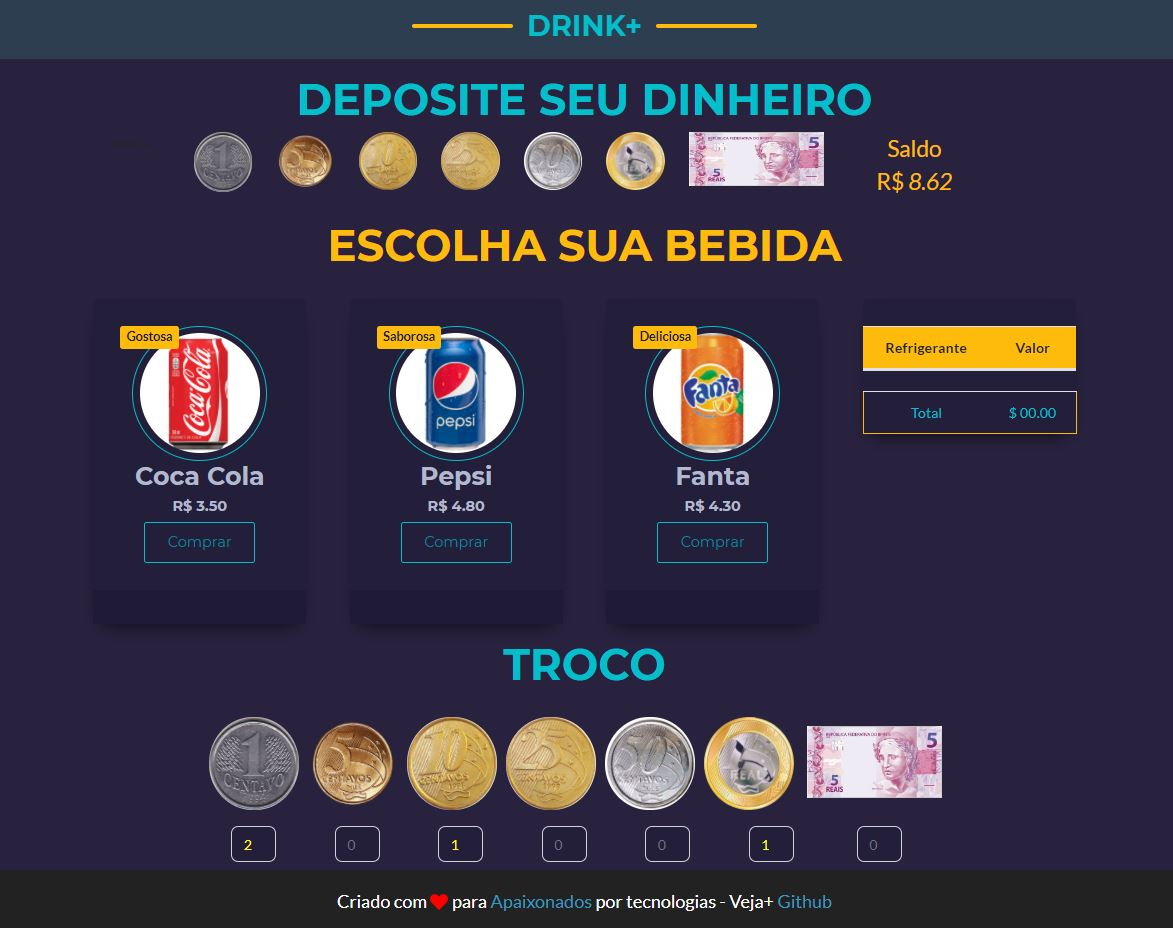
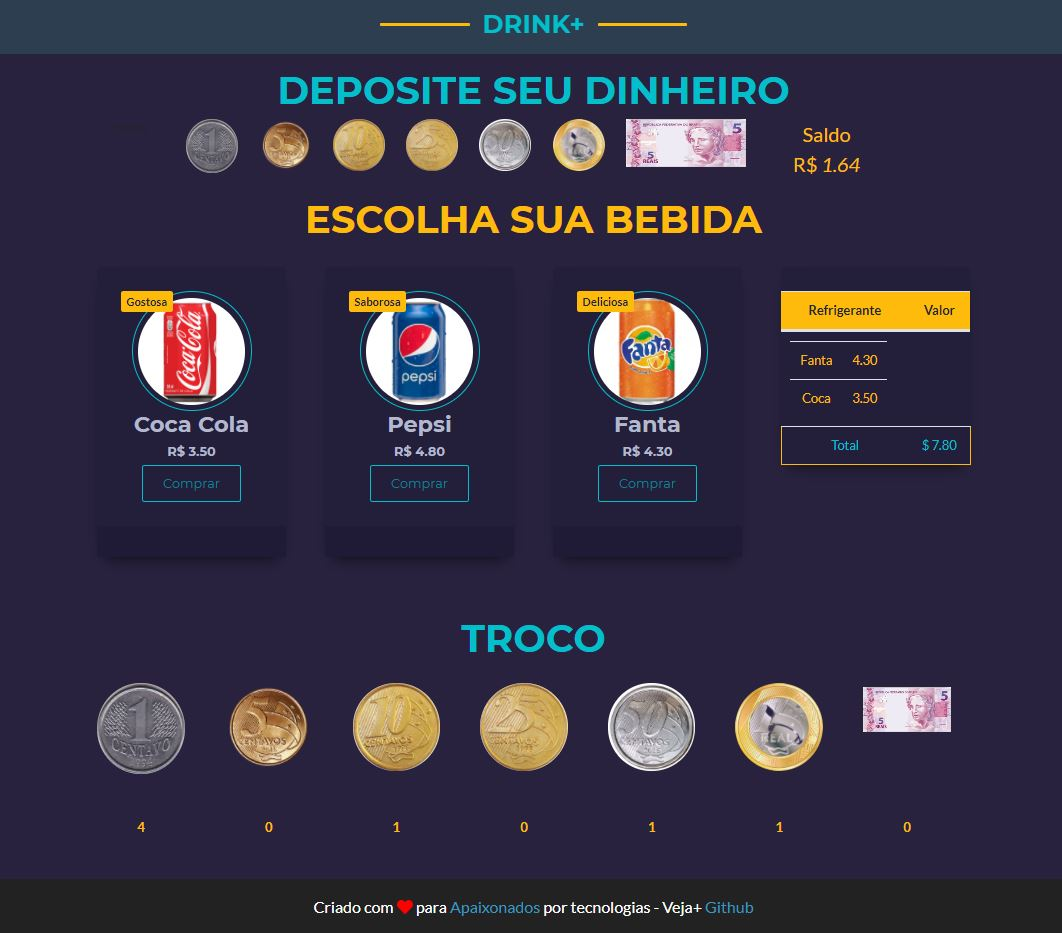
Refatoração do layout para mobile

diff --git a/index.html b/index.html
@@ -81,7 +81,7 @@
                 <!-- </div>   -->
         </section>
 
-        <section class="page-section portfolio" id="portfolio">
+        <section class="page-section portfolio" id="portfolio" >
             <div class="container" style="margin-top: -190px;">
                 <!-- Portfolio Section Heading-->
                 <h2 class="page-section-heading text-center text-uppercase text-secondary mb-0"><span style="color: #febb0b;">Escolha sua bebida</span></h2><br>
@@ -154,7 +154,7 @@
                                   <!-- <tr id="cart2"></tr>                                  -->
                                   <tr style="border:solid 2px #febb0b;">                                    
                                     <td style="color: #03bfcb;">Total</td>
-                                    <td style="color: #03bfcb;">$ 11.10</td>
+                                    <td style="color: #03bfcb;">$ 7.80</td>
                                   </tr>                              
                                 </tbody>
                               </table>
@@ -176,44 +176,135 @@
                         </div>
                     </div>
                 </div>                      
-            </div>        
+            </div> 
+            
+            
+
+
+            <h2 class="page-section-heading text-center text-uppercase text-secondary mb-0" ><span style="color: #03bfcb;">Troco</span></h2><br>
+            <div class="square">
+                <div class="block">                        
+                    <div class="centered">
+                        <img src="img/dinheiro/1centavo.jpg" value="0.01" id="1centavo" alt="..." class="rounded-circle " style="width: 100%">
+                    </div>
+                    
+                </div>
+            </div>
+            <div class="square">
+                <div class="block">                        
+                    <div class="centered">
+                        <img src="img/dinheiro/5centavos.png" value="0.05" alt="..." class="rounded-circle " style="width: 100%">
+                    </div>
+                    
+                </div>
+            </div>
+            <div class="square">
+                <div class="block">                        
+                    <div class="centered">
+                        <img src="img/dinheiro/10centavos.jpg" value="0.10" alt="..." class="rounded-circle " style="width: 100%;"> 
+                    </div>
+                    
+                </div>
+            </div>
+            <div class="square">
+                <div class="block">                        
+                    <div class="centered">
+                        <img src="img/dinheiro/25centavos.jpg" value="0.25" alt="..." class="rounded-circle " style="width: 100%;">
+                    </div>
+                    
+                </div>
+            </div>
+            <div class="square">
+                <div class="block">                        
+                    <div class="centered">
+                        <img src="img/dinheiro/50centavos.jpg" value="0.50" alt="..." class="rounded-circle " style="width: 100%">
+                    </div>
+                    
+                </div>
+            </div>
+            <div class="square">
+                <div class="block">                        
+                    <div class="centered">
+                        <img src="img/dinheiro/1real.png" value="1.00" alt="..." class="rounded-circle " style="width: 100%">
+                    </div>
+                    
+                </div>
+            </div>
+            <div class="square">
+                <div class="block">                        
+                    <div class="centered">
+                        <img src="img/dinheiro/5reais.jpg" value="5.00" alt="..." class="" style="width: 100%;height: 100%;margin-top: 5px;">
+                    </div>
+                    
+                </div>
+            </div>
+            <div class="square">
+                <div class="block">
+                    
+                    <div class="centered">
+                        4
+                    </div>
+                    
+                </div>
+            </div>
+            <div class="square">
+                <div class="block">
+                    
+                    <div class="centered">
+                        0
+                    </div>
+                    
+                </div>
+            </div>
+            <div class="square">
+                <div class="block">
+                    
+                    <div class="centered">
+                        1
+                    </div>
+                    
+                </div>
+            </div>
+            <div class="square">
+                <div class="block">
+                    
+                    <div class="centered">
+                        0
+                    </div>
+                    
+                </div>
+            </div>
+            <div class="square">
+                <div class="block">
+                    
+                    <div class="centered">
+                       1
+                    </div>
+                    
+                </div>
+            </div>
+            <div class="square">
+                <div class="block">
+                    
+                    <div class="centered">
+                        1
+                    </div>
+                    
+                </div>
+            </div>
+            <div class="square">
+                <div class="block">
+                    
+                    <div class="centered">
+                        0
+                    </div>
+                    
+                </div>
+            </div>
         </section>
 
-        <section class="page-section portfolio" id="portfolio">
-            <div class="container" style="border:solid 0px white; margin-top: -250px;">                
-                <h2 class="page-section-heading text-center text-uppercase text-secondary mb-0" ><span style="color: #03bfcb;">Troco</span></h2><br>               
-                <div class="row justify-content-center">                    
-                    <div class="col-md-6 col-lg-12 mb-5">
-                        <div class="container" >
-                            <div class="row justify-content-md-center" style="border: solid 0px white;">
-                                <img src="img/dinheiro/1centavo.jpg" alt="..." class="rounded-circle" style="width: 100px;margin-left: -20px;">
-                                <img src="img/dinheiro/5centavos.png" alt="..." class="rounded-circle" style="width: 100px;margin-left: 10px;">
-                                <img src="img/dinheiro/10centavos.jpg" alt="..." class="rounded-circle" style="width: 100px;margin-left: 10px;">
-                                <img src="img/dinheiro/25centavos.jpg" alt="..." class="rounded-circle" style="width: 100px;margin-left: 10px;">
-                                <img src="img/dinheiro/50centavos.jpg" alt="..." class="rounded-circle" style="width: 100px;margin-left: 10px;">
-                                <img src="img/dinheiro/1real.png" alt="..." class="rounded-circle" style="width: 100px;margin-left: 10px;">
-                                <img src="img/dinheiro/5reais.jpg" alt="..."  style="width: 150px;height: 80px; margin-top: 10px;margin-left: 15px;"> 
-                            </div>
-                        </div>
-                    </div>
-                </div>
-                <div class="row justify-content-center" style=" margin-top: -100px;">                    
-                    <div class="col-md-6 col-lg-12 mb-5">
-                        <div class="container" >
-                            <div class="row justify-content-md-center" style="border: solid 0px white;">
-                                <input type="text" class="form-control" placeholder="0" aria-label="Username" aria-describedby="basic-addon1" style="background-color: #231e39;color: yellow;width: 50px;margin-left: -40px;">
-                                <input type="text" class="form-control" placeholder="0" aria-label="Username" aria-describedby="basic-addon1" style="background-color: #231e39;color: yellow;width: 50px;margin-left: 65px;">
-                                <input type="text" class="form-control" placeholder="0" aria-label="Username" aria-describedby="basic-addon1" style="background-color: #231e39;color: yellow;width: 50px;margin-left: 65px;">
-                                <input type="text" class="form-control" placeholder="0" aria-label="Username" aria-describedby="basic-addon1" style="background-color: #231e39;color: yellow;width: 50px;margin-left: 65px;">
-                                <input type="text" class="form-control" placeholder="0" aria-label="Username" aria-describedby="basic-addon1" style="background-color: #231e39;color: yellow;width: 50px;margin-left: 65px;">
-                                <input type="text" class="form-control" placeholder="0" aria-label="Username" aria-describedby="basic-addon1" style="background-color: #231e39;color: yellow;width: 50px;margin-left: 65px;">
-                                <input type="text" class="form-control" placeholder="0" aria-label="Username" aria-describedby="basic-addon1" style="background-color: #231e39;color: yellow;width: 50px;margin-left: 70px;">              
-                            </div>                            
-                        </div>
-                    </div>
-                </div>
-        </section>    
-
+       
+        
         <!-- Footer-->
         <footer>
             <p style="font-size: 20px;">
@@ -223,8 +314,7 @@
               - Veja+
               <a target="_blank" href="https://github.com/Wesley-Silva">Github</a>
             </p>
-        </footer>        
-        
+        </footer> 
         <script src="index.js"></script>
     </body>
 </html>

diff --git a/css/styles.css b/css/styles.css
@@ -1,3 +1,147 @@
+
+body{
+  font-family: "Helvetica Neue", Helvetica, Arial, sans-serif;
+}
+/* Gera um quadrado responsivo. */
+.square{
+  width: 12%;
+  height: 0; /* A mágica está aqui */
+  padding-bottom: 12%; /* ... e está aqui */
+  margin: 1%;
+  float: left;
+  position: relative;
+}
+
+/*
+  Veja mais sobre como centralizar o texto no box aqui:
+  http://css-tricks.com/centering-in-the-unknown/
+*/
+.block{
+position: absolute;
+text-align: center;
+/* background: #1a1a1a; */
+width: 100%;
+height: 30%;
+}
+
+.block:before {
+content: '';
+display: inline-block;
+height: 100%; 
+vertical-align: middle;
+margin-right: -0.25em;
+}
+
+.centered {
+display: inline-block;
+vertical-align: middle;
+width: 80%;
+/* background: #222; */
+color:#febb0b;
+font-weight: bold;
+}
+
+
+
+
+
+
+
+
+
+
+
+
+
+
+
+
+
+
+
+
+
+
+
+
+
+
+
+
+
+
+.square-grid {
+  display: flex;
+  flex-wrap: wrap;
+  justify-content: center;
+}
+
+.square-grid__cell {
+  background-color: rgba(0, 0, 0, 0.03);
+  /* box-shadow: 0 0 0 1px black; */
+  overflow: hidden;
+  position: relative;
+}
+
+.square-grid__content {
+  left: 0;
+  position: absolute;
+  top: 0;
+}
+
+.square-grid__cell:after {
+  content: '';
+  display: block;
+  padding-bottom: 100%;
+}
+
+
+
+.square-grid__cell--10 {
+  flex-basis: 10%;
+}
+
+.square-grid__cell--9 {
+  flex-basis: 11.1111111%;
+}
+
+.square-grid__cell--8 {
+  flex-basis: 12.5%;
+}
+
+.square-grid__cell--7 {
+  flex-basis: 14.2857143%;
+}
+
+.square-grid__cell--6 {
+  flex-basis: 16.6666667%;
+}
+
+.square-grid__cell--5 {
+  flex-basis: 20%;
+}
+
+.square-grid__cell--4 {
+  flex-basis: 25%;
+}
+
+.square-grid__cell--3 {
+  flex-basis: 33.333%;
+}
+
+.square-grid__cell--2 {
+  flex-basis: 50%;
+}
+
+.square-grid__cell--1 {
+  flex-basis: 100%;
+}
+
+
+
+
+
+
 /*
  * style.css 
  */
